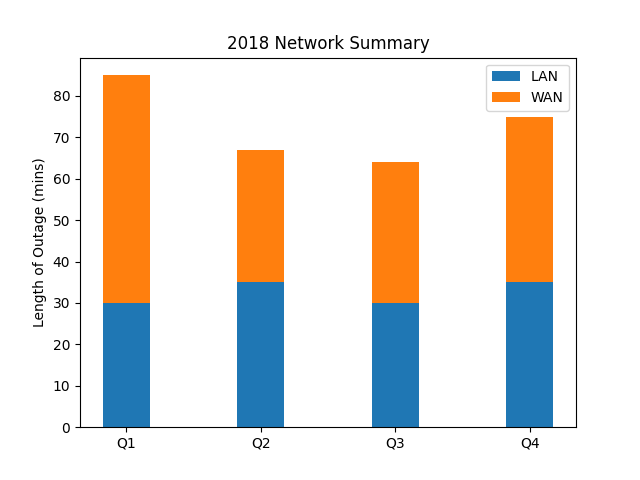
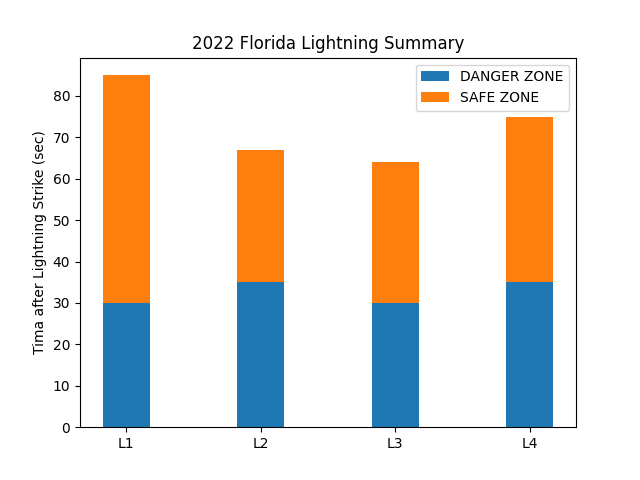
new image

diff --git a/graphing/graphmaker-csvreader.py b/graphing/graphmaker-csvreader.py
@@ -11,6 +11,8 @@ matplotlib.use('Agg')
 # sudo apt install python3-tk
 import matplotlib.pyplot as plt
 
+# ----------------------- PARSE CSV DATA ------------------------
+
 def parsecsvdata():
     """returns a list. [0] is LAN and [1] WAN data"""
     summary = [] # list that will contain [(LAN), (WAN)]
@@ -24,6 +26,8 @@ def parsecsvdata():
             rowdat = (int(row[0]), int(row[1]), int(row[2]), int(row[3]))
             summary.append(rowdat) # add dict to list
     return summary
+
+# ------------------------- PLOT GRAPHS --------------------------
 
 def plotgraphs(summary):
     N = 4
@@ -40,11 +44,11 @@ def plotgraphs(summary):
     p2 = plt.bar(ind, wanMeans, width, bottom=localnetMeans)
 
     # Describe the table metadata
-    plt.ylabel("Length of Outage (mins)")
-    plt.title("2018 Network Summary")
-    plt.xticks(ind, ("Q1", "Q2", "Q3", "Q4"))
+    plt.ylabel("Tima after Lightning Strike (sec)")
+    plt.title("2022 Florida Lightning Summary")
+    plt.xticks(ind, ("L1", "L2", "L3", "L4"))
     plt.yticks(np.arange(0, 81, 10))
-    plt.legend((p1[0], p2[0]), ("LAN", "WAN"))
+    plt.legend((p1[0], p2[0]), ("DANGER ZONE", "SAFE ZONE"))
     return plt
 
 # ------------------------- MAIN -------------------------------
@@ -58,6 +62,8 @@ def main():
     # Save to "~/static"
     plt.savefig("/home/student/static/2018summaryv2.png")       
     print("Graph created.")
+
+# ------------------- RUN MAIN FUNCTION -------------------------
 
 if __name__ == "__main__":
     main()
